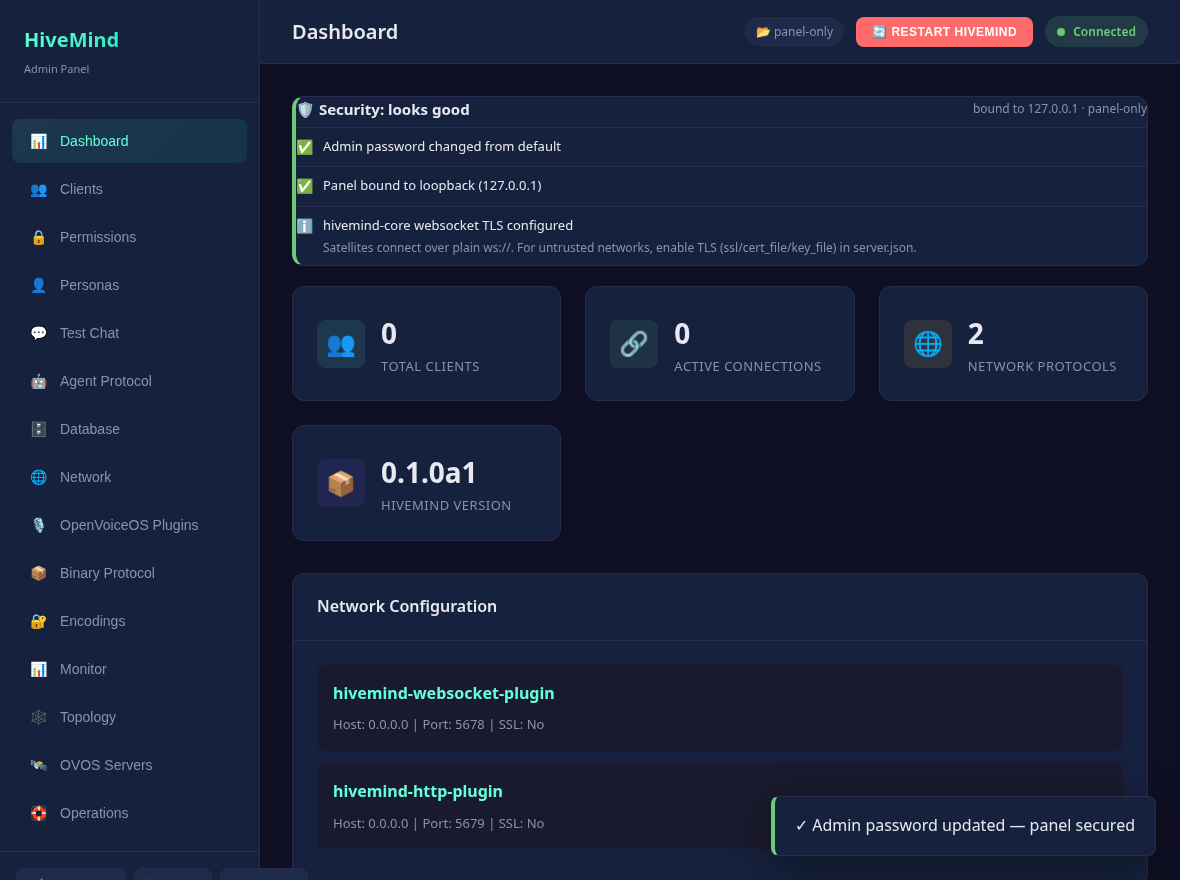
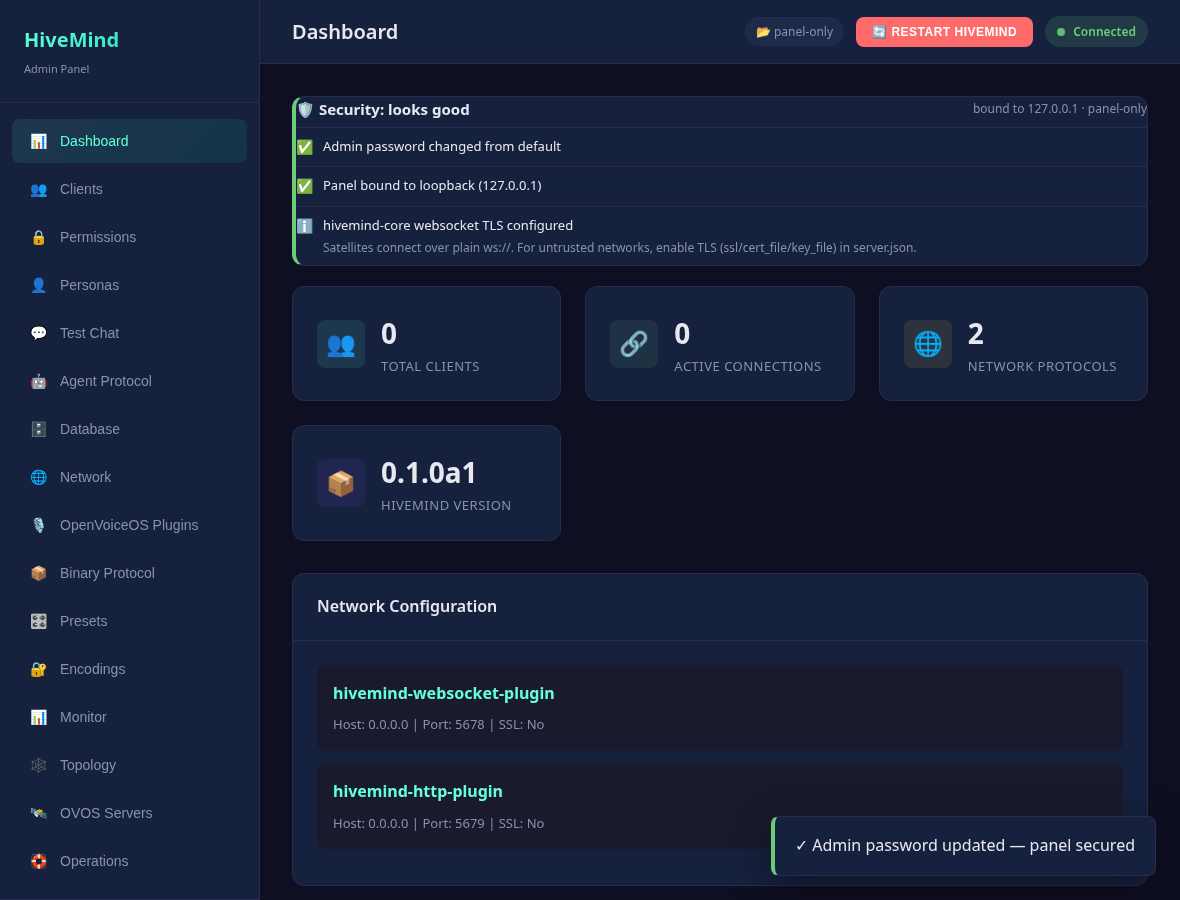
docs: screenshots for every relevant page (full browser QA pass)
A full instrumented-browser QA pass drove all 16 nav pages (assert load + key
element + no JS error + no 5xx) and the key flows (presets, multi-turn persona
chat, plugin lifecycle, config history, first-run gate): 23/23 green.

- New page screenshots embedded: Database backend, Agent Protocol, Network,
  Binary protocol, Encodings & ciphers (configuration.md "Plugin slots");
  Mesh topology (concepts.md); Dashboard (running.md). Refreshed dashboard/
  topology/servers with the populated QA-pass captures.
- Fix stale "~68 endpoints" → ~125 in architecture.md.

diff --git a/docs/configuration.md b/docs/configuration.md
@@ -50,13 +50,44 @@ You can switch backends and migrate clients between them from the UI or the
 [API reference](api-reference.md). Database **profiles** are stored separately under
 `~/.config/hivemind-core/database_profiles/*.json`.
 
+![Database backend](img/database.png)
+
+## Plugin slots
+
+`server.json` selects the plugin for each slot, and the panel has a page per slot.
+[Plugin presets](presets.md) make these configs reusable.
+
+### Agent backend (Agent Protocol)
+
+How the hub answers — an OVOS messagebus bridge, a [persona](#personas), or an A2A agent.
+
+![Agent Protocol](img/agent-protocol.png)
+
+### Network protocols
+
+The transports satellites connect over — websocket by default, plus HTTP/MQTT.
+
+![Network protocols](img/network.png)
+
+### Binary protocol (remote audio)
+
+Optional: composes STT/TTS/wake-word/VAD so satellites can stream audio. Author the
+speech configs as [presets](presets.md) and select them here.
+
+![Binary protocol](img/binary-protocol.png)
+
+### Encodings & ciphers
+
+Which serialization encodings and ciphers clients may use — at least one of each must
+stay enabled.
+
+![Encodings &amp; ciphers](img/encodings.png)
+
 ## Other config
 
 `GET /config` returns the full `server.json`; `POST /config` writes it back;
-`GET /config/defaults` returns core's built-in defaults. The same file also holds
-network/agent/binary protocol selection and the policy chain — the panel exposes
-these for editing but they are core concepts; see core's documentation for their
-semantics.
+`GET /config/defaults` returns core's built-in defaults; the policy chain and other
+core concepts are editable here too (see core's docs for their semantics).
 
 ## Personas
 

diff --git a/docs/concepts.md b/docs/concepts.md
@@ -23,6 +23,11 @@ network to a central server that does the thinking and talks back.
 - **The admin panel** (this project) — a web UI to run all of the above without
   touching config files or the command line.
 
+The panel visualizes this as a mesh — the hub in the centre, satellites (and
+[chat bridges](bridges.md)) around it:
+
+![Mesh topology](img/topology.png)
+
 > You normally run **one command** — `hivemind-admin-panel` — which starts
 > hivemind-core *and* the web UI together. See [Running](running.md).
 

diff --git a/docs/architecture.md b/docs/architecture.md
@@ -4,7 +4,7 @@
 
 ```
 hivemind_admin_panel/
-├── api.py          FastAPI app: ~68 REST endpoints (the whole admin API)
+├── api.py          FastAPI app: ~125 REST endpoints (the whole admin API)
 ├── __main__.py     standalone entrypoint; mounts api under /api + serves the SPA
 ├── __init__.py     public API: start_admin_server, init_injected_objects, get_admin_app
 ├── static/         single-page web UI (index.html, js/app.js, css/style.css)

diff --git a/docs/running.md b/docs/running.md
@@ -4,6 +4,8 @@
 default it **starts hivemind-core in-process** and serves the admin UI; you do not run
 `hivemind-core` separately. A `--no-core` flag serves the panel only.
 
+![Dashboard](img/dashboard.png)
+
 ## Default: hivemind-core + panel together
 
 ```bash
